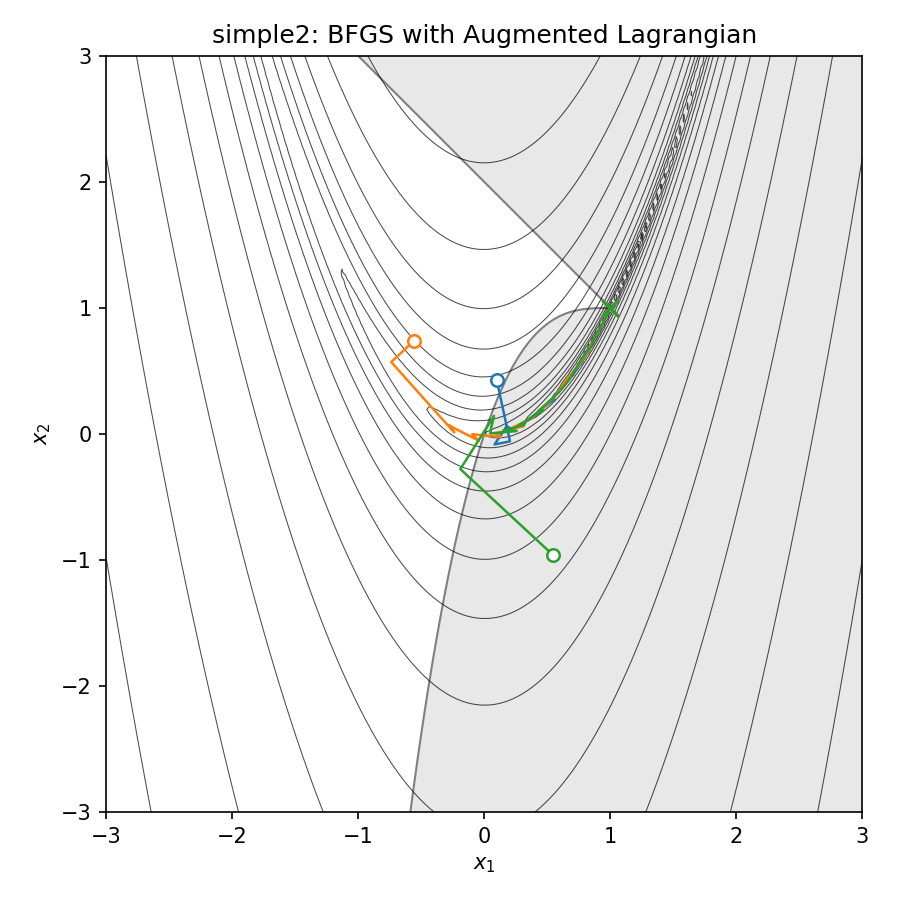
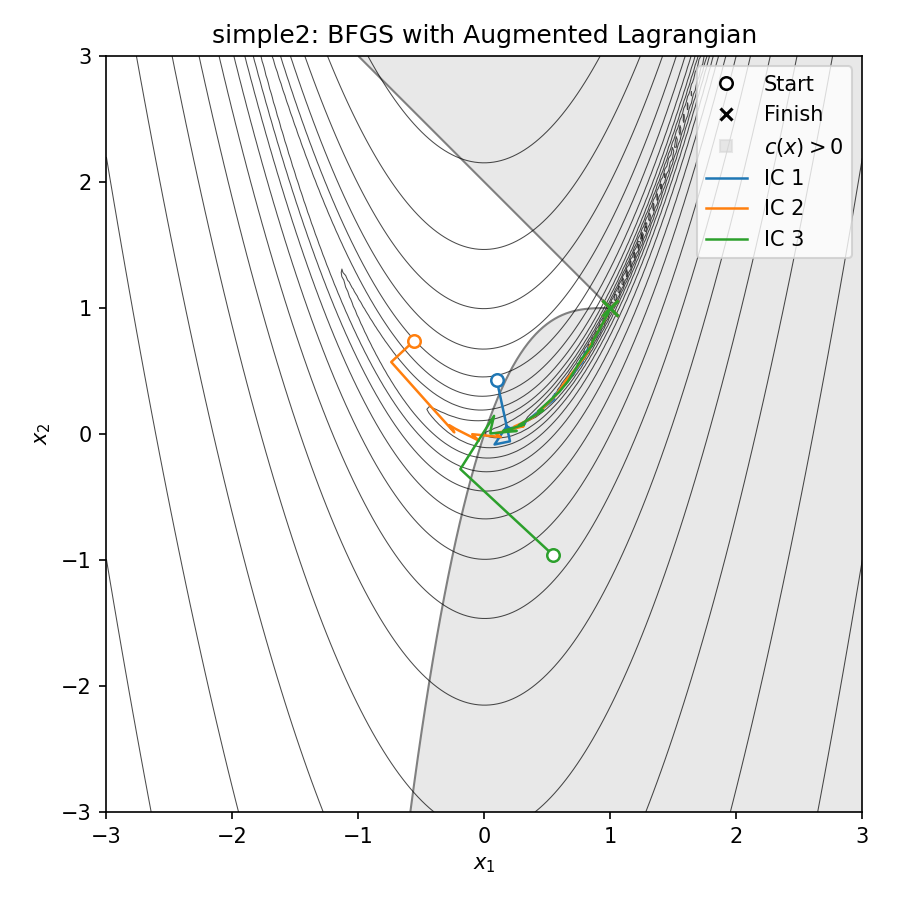
legend added

Changed region(s): [[0.7778, 0.0622, 0.9333, 0.28]]

diff --git a/plot_contours.py b/plot_contours.py
@@ -31,7 +31,8 @@ def plot_problem(test_class, name, seeds, levels):
 
     fig, ax = plt.subplots(figsize=(6, 6))
 
-    #Shade the infeasible region (where max c(x) > 0) in light gray.
+    #**Shade the infeasible region (where max c(x) > 0) in light gray. Project handout specifies
+    #to plot the FEASIBLE region (c(x) \leq 0) on top of a contour plot
     ax.contourf(X, Y, C, levels=[0.0, C.max() + 1.0], colors=['lightgray'], alpha=0.5)
 
     #Constraint boundary as a thin line.
@@ -52,9 +53,9 @@ def plot_problem(test_class, name, seeds, levels):
         path = np.array(hist['path'])
         ax.plot(path[:, 0], path[:, 1], '-', color=col, linewidth=1.2)
         ax.plot(path[0, 0], path[0, 1], 'o', color=col, markersize=6,
-                markerfacecolor='white', markeredgewidth=1.2)
+                markerfacecolor='white', markeredgewidth=1.2) #start
         ax.plot(path[-1, 0], path[-1, 1], 'x', color=col, markersize=8,
-                markeredgewidth=1.5)
+                markeredgewidth=1.5) #finish
 
     ax.set_xlim(-3, 3)
     ax.set_ylim(-3, 3)
@@ -62,6 +63,18 @@ def plot_problem(test_class, name, seeds, levels):
     ax.set_ylabel(r'$x_2$')
     ax.set_title(f'{name}: BFGS with Augmented Lagrangian')
     ax.set_aspect('equal')
+    #Legend showing start (circle) and finish (x)
+    ax.plot([], [], 'o', color='black', markerfacecolor='white',
+            markeredgewidth=1.2, label='Start')
+    ax.plot([], [], 'x', color='black',
+            markeredgewidth=1.5, label='Finish')
+    ax.plot([], [], 's', color='lightgray', alpha=0.5,
+            label=r'$c(x) > 0$')
+    #Add initial condition paths (C0, C1, C2) to the legend
+    ax.plot([], [], '-', color='C0', linewidth=1.2, label='initial condition 1')
+    ax.plot([], [], '-', color='C1', linewidth=1.2, label='initial condition 2')
+    ax.plot([], [], '-', color='C2', linewidth=1.2, label='initial condition 3')
+    ax.legend()
     fig.tight_layout()
     plt.show()
     return fig
